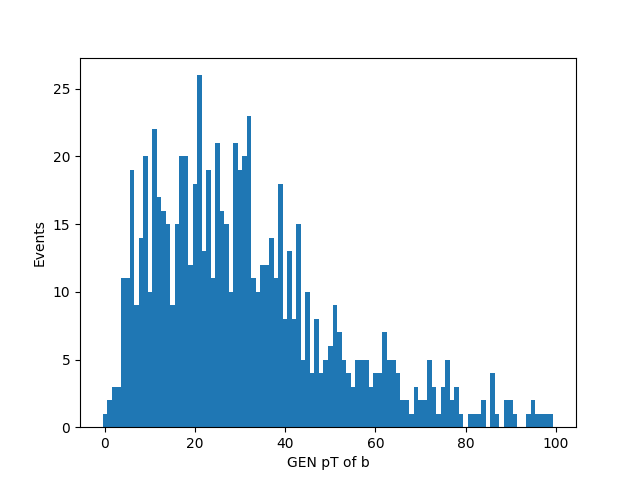
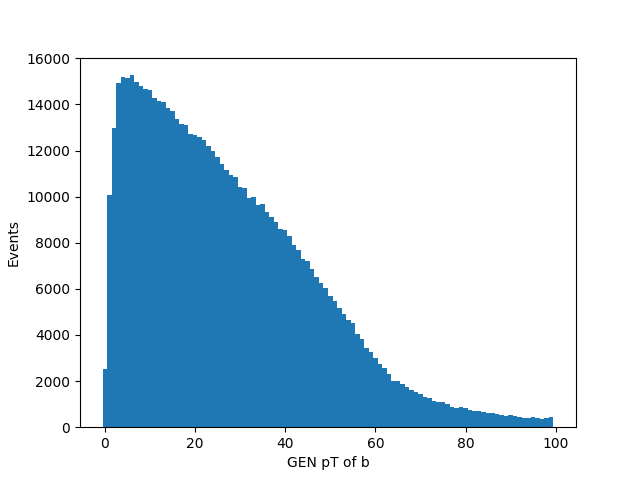
Updated A pdgId to be dynamic and ran over GGH NanoAOD file

diff --git a/n00dle.py b/n00dle.py
@@ -119,6 +119,8 @@ def mc(files):
     return plot
 
 def ana(files):
+    ## Define what pdgId we expect the A to have
+    Aid = 36
     ## Make a dictionary of histogram objects
     plots = {
         "beta":     hist(629,(-3.14,3.14),'GEN b Eta','Events','upplots/beta'),
@@ -147,9 +149,9 @@ def ana(files):
         ##
         pdgida = events.array('GenPart_pdgId')
         parida = events.array('GenPart_genPartIdxMother')
-        beta= pd.DataFrame(events.array('GenPart_eta')[abs(pdgida[parida])==9000006]).rename(columns=inc)
-        bphi= pd.DataFrame(events.array('GenPart_phi')[abs(pdgida[parida])==9000006]).rename(columns=inc)
-        bpt = pd.DataFrame(events.array('GenPart_pt')[abs(pdgida[parida])==9000006]).rename(columns=inc)
+        beta= pd.DataFrame(events.array('GenPart_eta')[abs(pdgida[parida])==Aid]).rename(columns=inc)
+        bphi= pd.DataFrame(events.array('GenPart_phi')[abs(pdgida[parida])==Aid]).rename(columns=inc)
+        bpt = pd.DataFrame(events.array('GenPart_pt')[abs(pdgida[parida])==Aid]).rename(columns=inc)
         jeteta= pd.DataFrame(events.array('Jet_eta')).rename(columns=inc)
         jetphi= pd.DataFrame(events.array('Jet_phi')).rename(columns=inc)
         jetpt = pd.DataFrame(events.array('Jet_pt')).rename(columns=inc)
